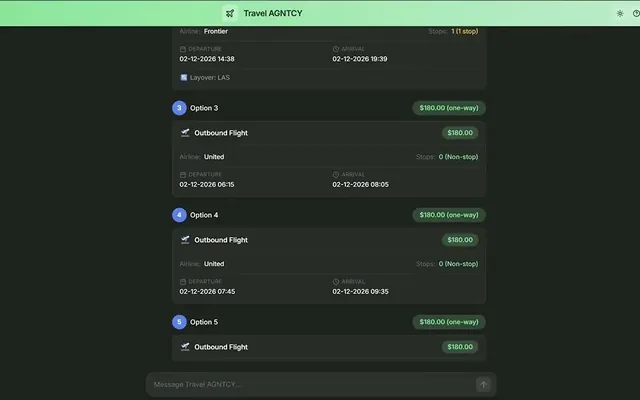
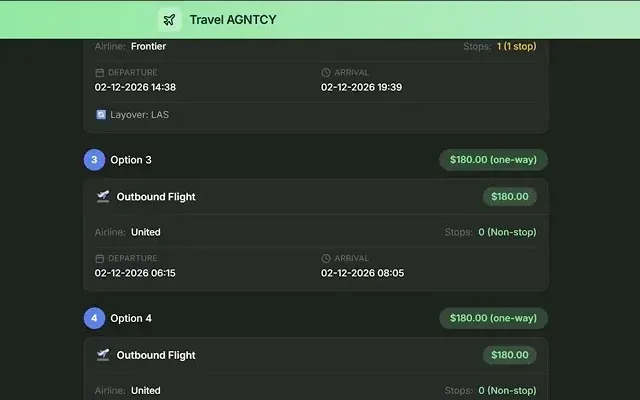
Theme-safe imagery and a token-driven chart

diff --git a/src/content/projects.ts b/src/content/projects.ts
@@ -17,8 +17,17 @@ export type Project = {
   links: { github?: string; demo?: string; live?: string; paper?: string }
   // `src` is the largest variant and the fallback; `srcSet` lists the cropped
   // WebP widths (480, 640 where the crop is wider, plus the largest the crop supports). width/height are the
-  // intrinsic size of `src`.
-  image?: { src: string; width: number; height: number; alt: string; srcSet?: string }
+  // intrinsic size of `src`. `tone` is the screenshot's own ground: only 'light' ones are dimmed in dark theme.
+  image?: {
+    src: string
+    width: number
+    height: number
+    alt: string
+    srcSet?: string
+    tone: 'light' | 'dark'
+  }
+  // The only chart is the Talk-to-Robot tier chart, drawn from tokens by TierChart instead of an <img>.
+  chart?: { alt: string }
   featured: boolean
   context?: string
 }
@@ -41,6 +50,7 @@ export const projects: Project[] = [
       width: 656,
       height: 410,
       alt: "WatchTower's triage queue showing live captured JavaScript errors with severity, version, and assignment",
+      tone: 'dark',
     },
     links: {
       github: 'https://github.com/cse110-sp26-group09/Watchtower-Course-Project',
@@ -67,11 +77,12 @@ export const projects: Project[] = [
       demo: 'https://youtu.be/T0EkJ9J_IQU',
     },
     image: {
-      src: '/travel-agntcy-947.webp',
-      srcSet: '/travel-agntcy-480.webp 480w, /travel-agntcy-640.webp 640w, /travel-agntcy-947.webp 947w',
-      width: 947,
-      height: 592,
-      alt: 'TravelAGNTCY running: an agent chat panel beside ranked flight options with airline, price, and layover detail',
+      src: '/travel-agntcy-640.webp',
+      srcSet: '/travel-agntcy-480.webp 480w, /travel-agntcy-640.webp 640w',
+      width: 640,
+      height: 400,
+      alt: 'TravelAGNTCY running: ranked one-way flight options, each with airline, price, stops, and departure and arrival times',
+      tone: 'dark',
     },
     featured: true,
     context: 'SANDHacks 2026',
@@ -97,6 +108,7 @@ export const projects: Project[] = [
       width: 920,
       height: 575,
       alt: "Stockroom's History page: a read-only log of purchase request events, each with its time, action, request, item, quantity, stock change and actor",
+      tone: 'light',
     },
     featured: true,
   },
@@ -119,10 +131,7 @@ export const projects: Project[] = [
     // paper itself calls misleading. Do not quote it as the headline result.
     result:
       'End-to-end success falls from 98% on literal coordinates to 50% on functional intent, while policy success held between 93 and 100%, which places the failures in grounding rather than control. Each tier fails differently rather than degrading smoothly: relative offsets land goals off the table, where a plain regex beat the LLM 85% to 77%; reference objects are off by a consistent 6 cm bias that controller retraining can absorb; and functional intent is not a coordinate problem at all, since annotators disagreed with each other about as much as the model did.',
-    image: {
-      src: '/talk-to-robot.svg',
-      width: 480,
-      height: 240,
+    chart: {
       alt: 'Bar chart of end-to-end success by instruction tier: 98.3% on literal coordinates, 93.3% on named regions, 76.7% on relative offsets, 73.3% on reference objects, and 50% on functional intent',
     },
     links: {
@@ -157,6 +166,7 @@ export const projects: Project[] = [
       width: 560,
       height: 280,
       alt: 'Two photos of a Cheerios box side by side, labelled Real and Synthetic, each with a detection box and a 0.99 confidence score',
+      tone: 'light',
     },
     featured: false,
     context: 'Kaggle competition',
@@ -181,6 +191,7 @@ export const projects: Project[] = [
       width: 840,
       height: 420,
       alt: "Personal Tracker's Home view: today's date, one overdue item first, then the coming days with course tags",
+      tone: 'light',
     },
     featured: false,
   },
@@ -200,11 +211,11 @@ export const projects: Project[] = [
     result:
       '96.7% validation accuracy from a fine-tuned ResNet18, with preprocessing and class balancing over a 1,200+ image dataset improving generalization by 18%.',
     image: {
-      src: '/bird-classifier-512.webp',
-      srcSet: '/bird-classifier-480.webp 480w, /bird-classifier-512.webp 512w',
-      width: 512,
-      height: 256,
+      src: '/bird-classifier-400.webp',
+      width: 400,
+      height: 200,
       alt: 'A common kingfisher perched on a branch against a blurred green background, one of the test images used to evaluate the classifier',
+      tone: 'light',
     },
     links: {
       github: 'https://github.com/AdityaJadhav17/bird-classifier-forest',

diff --git a/src/components/ui/button.tsx b/src/components/ui/button.tsx
@@ -12,26 +12,17 @@ const buttonVariants = cva(
         default: "bg-primary text-primary-foreground hover:bg-primary/80",
         outline:
           "border-border bg-background hover:border-muted-foreground hover:bg-muted hover:text-foreground aria-expanded:bg-muted aria-expanded:text-foreground dark:border-input dark:bg-input/30 dark:hover:border-muted-foreground dark:hover:bg-input/50",
-        secondary:
-          "bg-secondary text-secondary-foreground hover:bg-[color-mix(in_oklch,var(--secondary),var(--foreground)_5%)] aria-expanded:bg-secondary aria-expanded:text-secondary-foreground",
         ghost:
           "hover:bg-muted hover:text-foreground aria-expanded:bg-muted aria-expanded:text-foreground dark:hover:bg-muted/50",
-        destructive:
-          "bg-destructive/10 text-destructive hover:bg-destructive/20 focus-visible:border-destructive/40 focus-visible:ring-destructive/20 dark:bg-destructive/20 dark:hover:bg-destructive/30 dark:focus-visible:ring-destructive/40",
-        link: "text-primary underline-offset-4 hover:underline",
       },
       size: {
         default:
-          "h-8 gap-1.5 px-2.5 has-data-[icon=inline-end]:pr-2 has-data-[icon=inline-start]:pl-2",
-        xs: "h-6 gap-1 rounded-[min(var(--radius-md),10px)] px-2 text-xs in-data-[slot=button-group]:rounded-lg has-data-[icon=inline-end]:pr-1.5 has-data-[icon=inline-start]:pl-1.5 [&_svg:not([class*='size-'])]:size-3",
-        sm: "h-7 gap-1 rounded-[min(var(--radius-md),12px)] px-2.5 text-[0.8rem] in-data-[slot=button-group]:rounded-lg has-data-[icon=inline-end]:pr-1.5 has-data-[icon=inline-start]:pl-1.5 [&_svg:not([class*='size-'])]:size-3.5",
-        lg: "h-9 gap-1.5 px-2.5 has-data-[icon=inline-end]:pr-2 has-data-[icon=inline-start]:pl-2",
+          "h-8 gap-1.5 px-2.5",
+        sm: "h-7 gap-1 rounded-[min(var(--radius-md),12px)] px-2.5 text-[0.8rem] [&_svg:not([class*='size-'])]:size-3.5",
+        lg: "h-9 gap-1.5 px-2.5",
         icon: "size-8 pointer-coarse:min-w-11",
-        "icon-xs":
-          "size-6 pointer-coarse:min-w-11 rounded-[min(var(--radius-md),10px)] in-data-[slot=button-group]:rounded-lg [&_svg:not([class*='size-'])]:size-3",
         "icon-sm":
-          "size-7 pointer-coarse:min-w-11 rounded-[min(var(--radius-md),12px)] in-data-[slot=button-group]:rounded-lg",
-        "icon-lg": "size-9 pointer-coarse:min-w-11",
+          "size-7 pointer-coarse:min-w-11 rounded-[min(var(--radius-md),12px)]",
       },
     },
     defaultVariants: {

diff --git a/src/components/ProjectCard.tsx b/src/components/ProjectCard.tsx
@@ -1,6 +1,7 @@
 import { ChevronDown, ExternalLink, FileText } from 'lucide-react'
 import { FaGithub, FaYoutube } from 'react-icons/fa'
 import type { Project } from '@/content/projects'
+import { TierChart } from '@/components/TierChart'
 import { cn } from '@/lib/utils'
 
 type ProjectCardProps = {
@@ -47,6 +48,7 @@ const linkClass =
 
 export function ProjectCard({ project, className, layout = 'stacked' }: ProjectCardProps) {
   const isWide = layout === 'wide'
+  const ratio = isWide ? 'aspect-[16/10]' : 'aspect-[2/1]'
   const shownStack = project.stack.slice(0, MAX_TAGS)
   const hiddenCount = project.stack.length - shownStack.length
   const { outcome, metric } = project
@@ -97,7 +99,12 @@ export function ProjectCard({ project, className, layout = 'stacked' }: ProjectC
           isWide && 'md:flex md:w-2/5 md:items-center md:border-r md:border-b-0',
         )}
       >
-        {project.image ? (
+        {project.chart ? (
+          <TierChart
+            alt={project.chart.alt}
+            className={cn('w-full rounded-md bg-card ring-1 ring-border', ratio)}
+          />
+        ) : project.image ? (
           <img
             src={project.image.src}
             srcSet={project.image.srcSet}
@@ -108,11 +115,12 @@ export function ProjectCard({ project, className, layout = 'stacked' }: ProjectC
             loading="lazy"
             className={cn(
               // Every image is pre-cropped to its slot (16:10 wide, 2:1 in the
-              // grid), so object-cover only absorbs rounding. The dark filter
-              // keeps light screenshots and the chart from glaring on the
-              // dark ground.
-              'w-full rounded-md object-cover ring-1 ring-border dark:brightness-[.85] dark:contrast-[.95]',
-              isWide ? 'aspect-[16/10]' : 'aspect-[2/1]',
+              // grid), so object-cover only absorbs rounding. Light screenshots
+              // are dimmed in dark theme so they do not glare; dark ones keep
+              // their own ground. Never inverted.
+              'w-full rounded-md object-cover ring-1 ring-border',
+              project.image.tone === 'light' && 'dark:brightness-[.85]',
+              ratio,
             )}
           />
         ) : (

diff --git a/src/components/TierChart.tsx b/src/components/TierChart.tsx
@@ -1,0 +1,44 @@
+// Talk-to-Robot, Table 1 of the CSE 190 paper (baseline evaluation, few-shot):
+// end-to-end success by instruction tier. Colours and type come from the
+// .tier-chart rules in theme.css, so it follows light and dark with no hex.
+const TIERS: [name: string, value: number][] = [
+  ['Literal', 98.3],
+  ['Region', 93.3],
+  ['Offsets', 76.7],
+  ['Reference', 73.3],
+  ['Intent', 50],
+]
+const BASE = 124 // y of 0%; 0.84 user units per percentage point
+const y = (v: number) => BASE - v * 0.84
+const top = y(98.3)
+
+export function TierChart({ alt, className }: { alt: string; className: string }) {
+  return (
+    <svg viewBox="0 0 320 160" role="img" aria-label={alt} className={`tier-chart ${className}`}>
+      <text x="12" y="15" className="ttl">
+        End-to-end success by instruction tier
+      </text>
+      <line x1="12" x2="308" y1={top} y2={top} className="ref" />
+      <text x="308" y={top - 4} className="ref-label">
+        T0 baseline
+      </text>
+      {TIERS.map(([name, value], i) => {
+        const t = y(value)
+        return (
+          // Slot centres across x 12..308, 59.2 apart.
+          <g key={name} transform={`translate(${41.6 + 59.2 * i})`}>
+            <rect x="-20" y={t} width="40" height={BASE - t} className={i === 4 ? 'hot' : undefined} />
+            <text y={t - 4} className="val">
+              {value.toFixed(1)}%
+            </text>
+            <text y={BASE + 13} className="id">
+              T{i}
+            </text>
+            <text y={BASE + 25}>{name}</text>
+          </g>
+        )
+      })}
+      <line x1="12" x2="308" y1={BASE} y2={BASE} className="axis" />
+    </svg>
+  )
+}

diff --git a/src/styles/theme.css b/src/styles/theme.css
@@ -278,6 +278,32 @@
     }
   }
 
+  /* TierChart (Talk-to-Robot). Presentation lives here, not in the component,
+     to keep the JS budget: fill, anchor and size inherit from .tier-chart and
+     the children override only what differs. Sizes are SVG user units, so they
+     scale with the poster. Bars and labels are muted-foreground (>= 6.9:1 on
+     card); .hot, the T4 bar, is accent-signal (>= 3.78:1 on card). The halo
+     in the card colour stops the dashed reference line striking through the
+     value labels. */
+  .tier-chart {
+    fill: var(--color-muted-foreground);
+    font: 9px var(--font-sans);
+    text-anchor: middle;
+  }
+  .tier-chart rect { rx: 2px; }
+  .tier-chart .hot { fill: var(--color-accent-signal); }
+  .tier-chart .ttl { fill: var(--color-foreground); font-size: 11px; font-weight: 600; text-anchor: start; }
+  .tier-chart .val { fill: var(--color-foreground); font-size: 10px; font-weight: 600; }
+  .tier-chart .id { font-size: 10px; font-weight: 600; }
+  .tier-chart .val, .tier-chart .ref-label {
+    paint-order: stroke;
+    stroke: var(--color-card);
+    stroke-width: 3px;
+  }
+  .tier-chart .ref-label { text-anchor: end; }
+  .tier-chart .ref { stroke: var(--color-muted-foreground); stroke-dasharray: 4 3; }
+  .tier-chart .axis { stroke: var(--color-input); stroke-width: 1.5px; }
+
   /* Decorative dot grid behind the Contact section. Declared here rather than
      inline because the dot colour has to resolve from a token, and theme.css
      is the only place colour is allowed to be resolved. Masked radially so it

diff --git a/src/styles/palette.test.ts b/src/styles/palette.test.ts
@@ -48,6 +48,9 @@ const USAGE: [string, string[], number][] = [
   ['accent-foreground', ['accent-ink'], 4.5],
   ['destructive-foreground', ['destructive'], 4.5],
   ['accent-signal', SURFACES, 3],
+  // TierChart marks sit on card: bars are muted-foreground, the T4 highlight is accent-signal.
+  ['muted-foreground', ['card'], 3],
+  ['accent-signal', ['card'], 3],
   ['ring', SURFACES, 3],
   ['input', SURFACES, 3],
 ]
@@ -101,13 +104,12 @@ describe('accent discipline', () => {
 
   it('no palette hex outside theme.css', () => {
     const hex = /#[0-9a-fA-F]{3,8}\b/
-    // favicon.svg and 404.html are generated into public/ from the tokens (gitignored);
-    // talk-to-robot.svg is a committed data figure with its own colours, not site chrome.
+    // favicon.svg and 404.html are generated into public/ from the tokens (gitignored).
     const files = [
       ...src.filter((f) => /\.tsx?$/.test(f)),
       join(process.cwd(), 'index.html'),
       ...walk(join(process.cwd(), 'public')).filter(
-        (f) => /\.(svg|html)$/.test(f) && !/[\\/](favicon\.svg|404\.html|talk-to-robot\.svg)$/.test(f),
+        (f) => /\.(svg|html)$/.test(f) && !/[\\/](favicon\.svg|404\.html)$/.test(f),
       ),
     ]
     const offenders = files.filter((f) => hex.test(readFileSync(f, 'utf8'))).map(rel)
